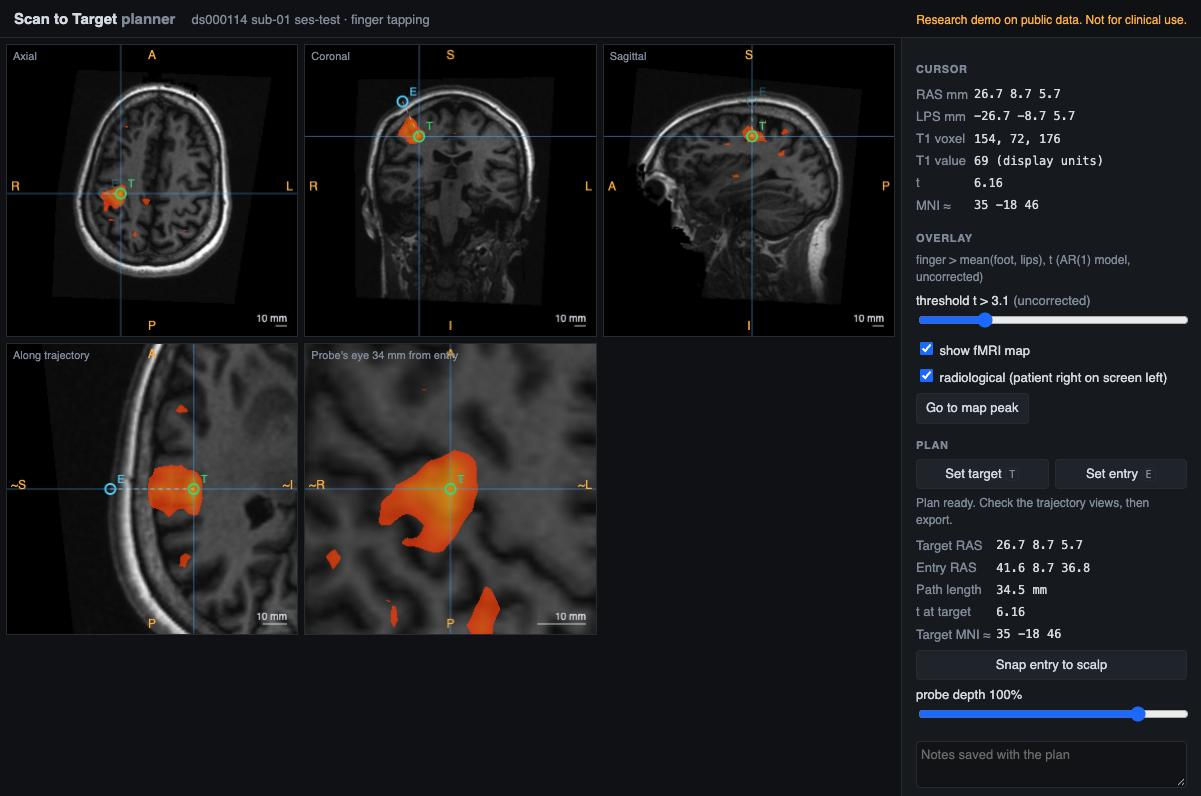
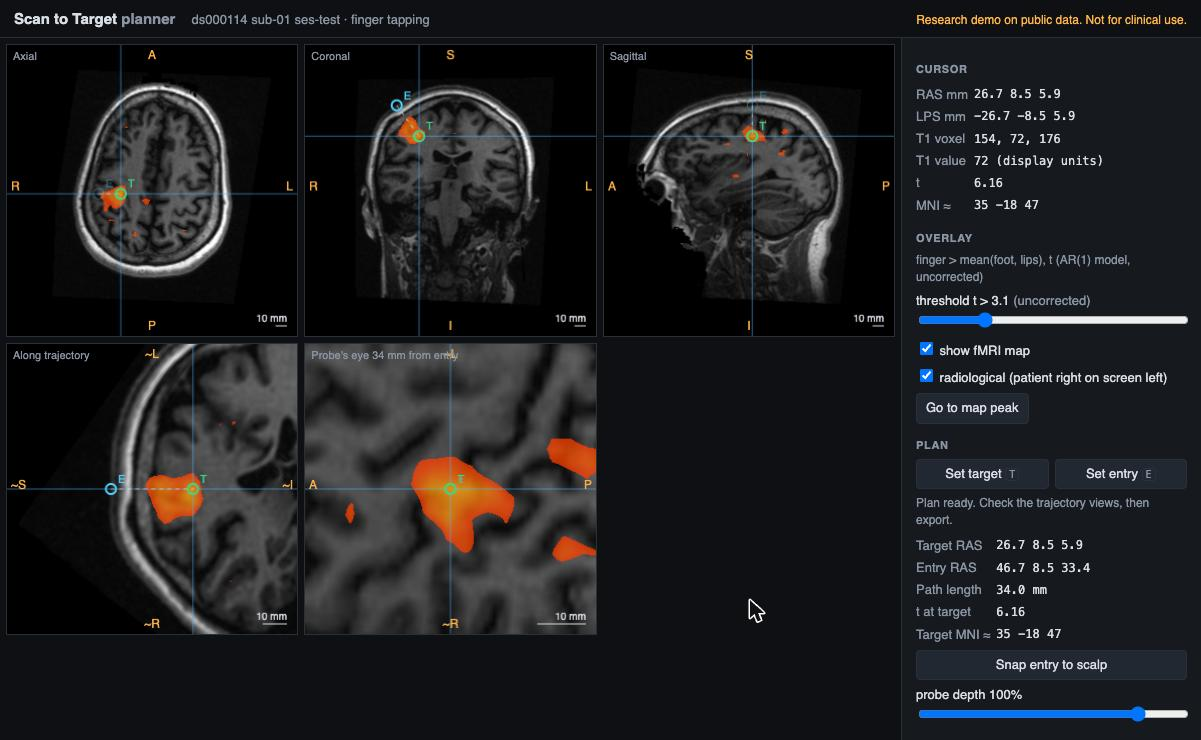
Site draft: new planner screenshot after the probe-view fix (34 mm path)

diff --git a/site-draft/index.html b/site-draft/index.html
@@ -32,8 +32,8 @@
   </section>
 
   <figure>
-    <img class="hero" src="planner.jpg" alt="The planner in a browser. Axial, coronal and sagittal slices of a T1 scan with an orange fMRI map on the right motor strip; a target marker T on the map and an entry marker E on the scalp; below, a slice along the 34.5 mm path and a slice across it at the tip; a side panel with RAS, LPS, voxel and approximate MNI coordinates.">
-    <figcaption>The planner on volunteer 1, first session. Target at the finger-movement map's peak, entry snapped to the scalp, 34.5 mm path.</figcaption>
+    <img class="hero" src="planner.jpg" alt="The planner in a browser. Axial, coronal and sagittal slices of a T1 scan with an orange fMRI map on the right motor strip; a target marker T on the map and an entry marker E on the scalp; below, a slice along the 34 mm path and a slice across it at the tip; a side panel with RAS, LPS, voxel and approximate MNI coordinates.">
+    <figcaption>The planner on volunteer 1, first session. Target at the finger-movement map's peak, entry snapped to the scalp, 34 mm path.</figcaption>
   </figure>
 
   <section class="story">
